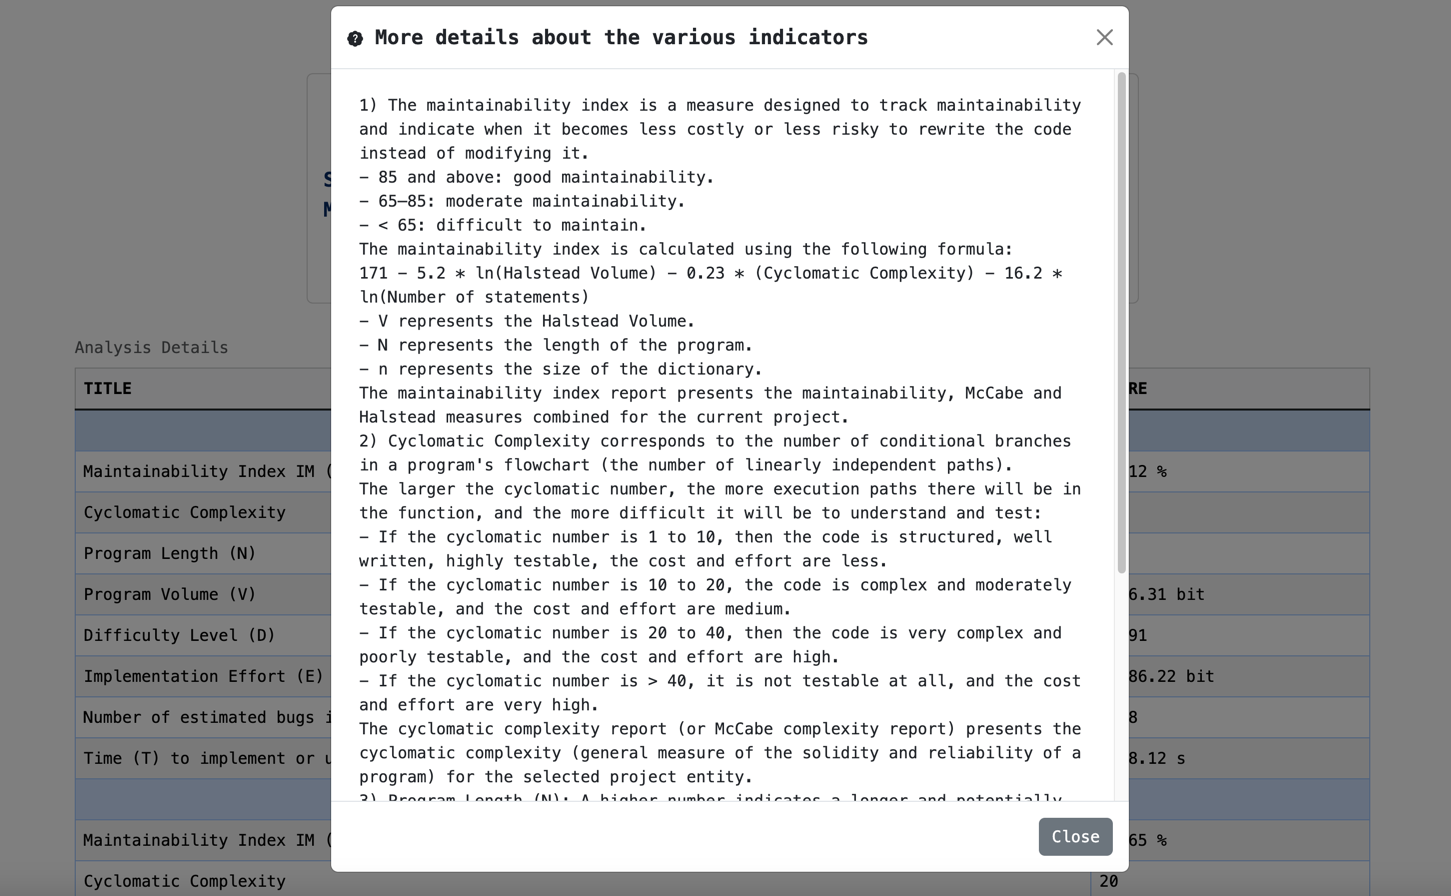
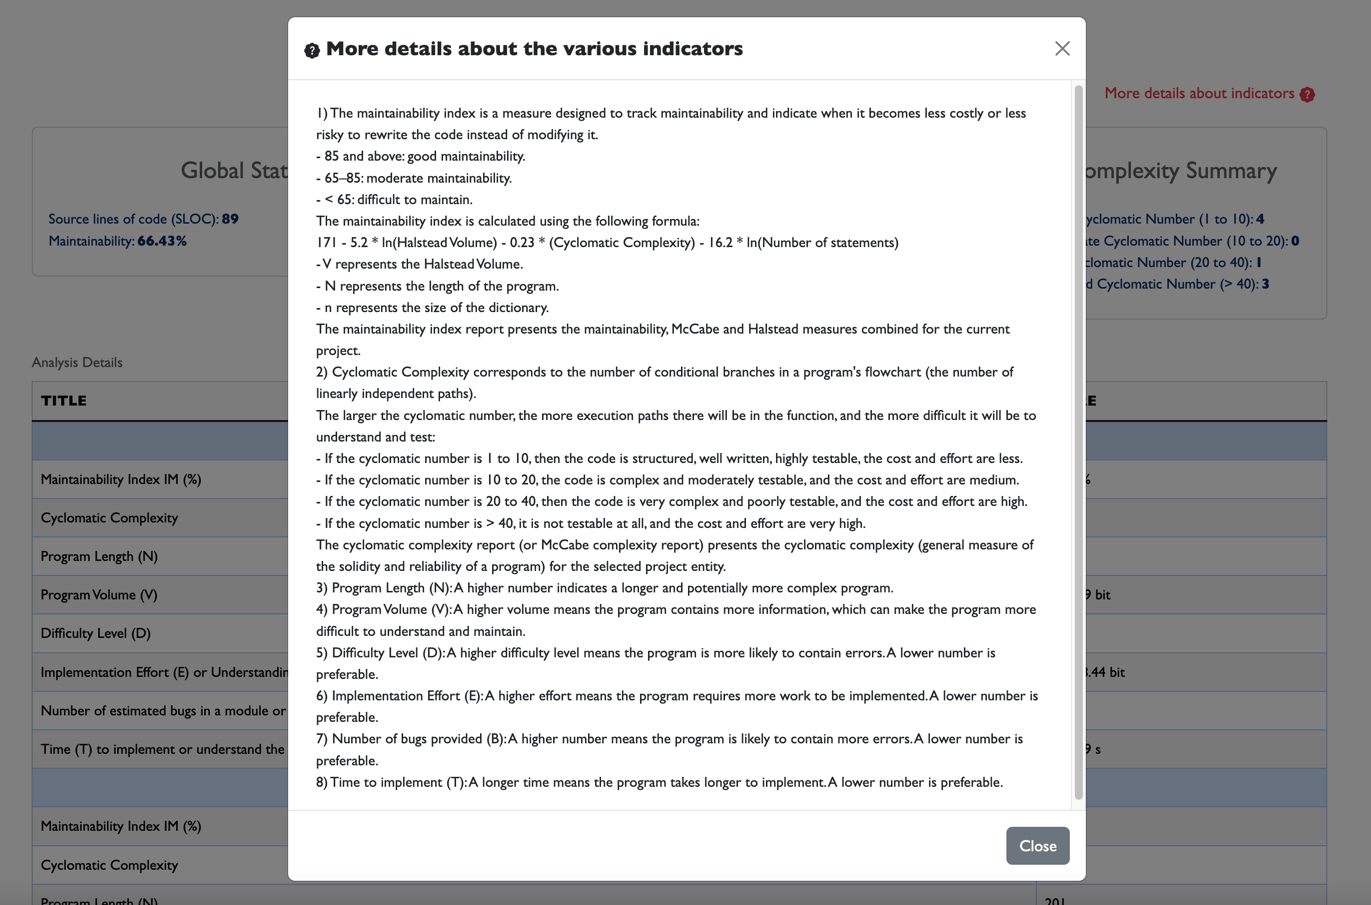
[EVOL]: stats/number of files with good, bad, medium maintainability, complexity and SLOC #9

Changed region(s): [[0.0, 0.0, 0.9803, 1.0]]

diff --git a/src/config/CodeComplexityConfig.js b/src/config/CodeComplexityConfig.js
@@ -251,6 +251,13 @@ const buildHtmlComplexityReports = (summary, descriptions, reportsByFile) => {
 
   const {
     average,
+    goodMaintainabilityTotal,
+    moderateMaintainabilityTotal,
+    badMaintainabilityTotal,
+    goodCyclomaticTotal,
+    moderateCyclomaticTotal,
+    badCyclomaticTotal,
+    veryBadCyclomaticTotal,
   } = summary;
 
   return `
@@ -261,37 +268,108 @@ const buildHtmlComplexityReports = (summary, descriptions, reportsByFile) => {
     <meta name="viewport" content="width=device-width, initial-scale=1">
     <title>Audit Reports</title>
     <link href="https://cdn.jsdelivr.net/npm/bootstrap@5.3.2/dist/css/bootstrap.min.css" rel="stylesheet" integrity="sha384-T3c6CoIi6uLrA9TneNEoa7RxnatzjcDSCmG1MXxSR1GAsXEV/Dwwykc2MPK8M2HN" crossorigin="anonymous">
+    <style>
+        body {
+            font-family: "Gill Sans", sans-serif;
+            font-size: 0.9rem;
+        }
+
+        h1 {
+            font-size: 2rem;
+        }
+
+        h2 {
+            font-size: 1.5rem;
+        }
+
+        span {
+            font-size: 0.9rem;
+        }
+    </style>
 </head>
-<body class="font-monospace">
+<body>
 <h1 class="text-center mb-4 mt-4">Code Complexity Analysis</h1>
-<div class="container text-center w-50">
-    <article class="card">
-        <div class="card-body mb-2 mt-2">
-            <h2 class="card-title text-body-secondary mt-1">Global Status (Average)</h2>
-            <p class="card-text text-start fs-5 mt-4">
-                  <span class="text-primary-emphasis">
-                  <strong>Source lines of code (SLOC):</strong> ${average?.sloc || 0}
-                  </span>
-                <br />
-                <span class="text-primary-emphasis">
-                  <strong>Maintainability:</strong> ${average?.maintainability || 0}%
-                </span>
-            </p>
-            <div class="container text-end">
-                <button
-                        type="button"
-                        class="btn btn-danger"
-                        data-bs-toggle="modal"
-                        data-bs-target="#helpMessage"
-                >
-                   More details about indicators
-                    <svg xmlns="http://www.w3.org/2000/svg" width="16" height="16" fill="currentColor" class="bi bi-patch-question-fill" viewBox="0 0 16 16">
-                        <path d="M5.933.87a2.89 2.89 0 0 1 4.134 0l.622.638.89-.011a2.89 2.89 0 0 1 2.924 2.924l-.01.89.636.622a2.89 2.89 0 0 1 0 4.134l-.637.622.011.89a2.89 2.89 0 0 1-2.924 2.924l-.89-.01-.622.636a2.89 2.89 0 0 1-4.134 0l-.622-.637-.89.011a2.89 2.89 0 0 1-2.924-2.924l.01-.89-.636-.622a2.89 2.89 0 0 1 0-4.134l.637-.622-.011-.89a2.89 2.89 0 0 1 2.924-2.924l.89.01zM7.002 11a1 1 0 1 0 2 0 1 1 0 0 0-2 0m1.602-2.027c.04-.534.198-.815.846-1.26.674-.475 1.05-1.09 1.05-1.986 0-1.325-.92-2.227-2.262-2.227-1.02 0-1.792.492-2.1 1.29A1.7 1.7 0 0 0 6 5.48c0 .393.203.64.545.64.272 0 .455-.147.564-.51.158-.592.525-.915 1.074-.915.61 0 1.03.446 1.03 1.084 0 .563-.208.885-.822 1.325-.619.433-.926.914-.926 1.64v.111c0 .428.208.745.585.745.336 0 .504-.24.554-.627"/>
-                    </svg>
-                </button>
-            </div>            
+
+<div class="container text-end mt-3 mb-3">
+    <button
+            type="button"
+            class="btn btn-outline-danger border-0"
+            data-bs-toggle="modal"
+            data-bs-target="#helpMessage"
+    >
+        More details about indicators
+        <svg xmlns="http://www.w3.org/2000/svg" width="16" height="16" fill="currentColor" class="bi bi-patch-question-fill" viewBox="0 0 16 16">
+            <path d="M5.933.87a2.89 2.89 0 0 1 4.134 0l.622.638.89-.011a2.89 2.89 0 0 1 2.924 2.924l-.01.89.636.622a2.89 2.89 0 0 1 0 4.134l-.637.622.011.89a2.89 2.89 0 0 1-2.924 2.924l-.89-.01-.622.636a2.89 2.89 0 0 1-4.134 0l-.622-.637-.89.011a2.89 2.89 0 0 1-2.924-2.924l.01-.89-.636-.622a2.89 2.89 0 0 1 0-4.134l.637-.622-.011-.89a2.89 2.89 0 0 1 2.924-2.924l.89.01zM7.002 11a1 1 0 1 0 2 0 1 1 0 0 0-2 0m1.602-2.027c.04-.534.198-.815.846-1.26.674-.475 1.05-1.09 1.05-1.986 0-1.325-.92-2.227-2.262-2.227-1.02 0-1.792.492-2.1 1.29A1.7 1.7 0 0 0 6 5.48c0 .393.203.64.545.64.272 0 .455-.147.564-.51.158-.592.525-.915 1.074-.915.61 0 1.03.446 1.03 1.084 0 .563-.208.885-.822 1.325-.619.433-.926.914-.926 1.64v.111c0 .428.208.745.585.745.336 0 .504-.24.554-.627"/>
+        </svg>
+    </button>
+</div>
+
+<div class="container text-center">
+    <div class="row gx-2">
+
+        <div class="col">
+            <article class="card">
+                <div class="card-body mb-2 mt-2">
+                    <h2 class="card-title text-body-secondary mt-1">Global Status</h2>
+                    <p class="card-text text-start mt-4">
+                        <span class="text-primary-emphasis">
+                          Source lines of code (SLOC): <strong>${average?.sloc || 0}</strong>
+                        </span>
+                        <br />
+                        <span class="text-primary-emphasis">
+                         Maintainability: <strong>${average?.maintainability || 0}%</strong>
+                        </span>
+                    </p>
+                </div>
+            </article>
         </div>
-    </article>
+
+        <div class="col">
+            <article class="card">
+                <div class="card-body mb-2 mt-2">
+                    <h2 class="card-title text-body-secondary mt-1">Maintainability Summary</h2>
+                    <p class="card-text text-start mt-4">
+                        <span class="text-primary-emphasis">
+                         Number of files with good maintainability index (>=85 %): <strong>${goodMaintainabilityTotal || 0}</strong>
+                        </span>
+                        <br />
+                        <span class="text-primary-emphasis">
+                         Number of files with moderate maintainability index (65–85 %): <strong>${moderateMaintainabilityTotal || 0}</strong>
+                        </span>
+                        <br />
+                        <span class="text-primary-emphasis">
+                         Number of files with bad maintainability index (<65 %): <strong>${badMaintainabilityTotal || 0}</strong>
+                        </span>
+                    </p>
+                </div>
+            </article>
+        </div>
+
+        <div class="col">
+            <article class="card">
+                <div class="card-body mb-2 mt-2">
+                    <h2 class="card-title text-body-secondary mt-1">Cyclomatic Complexity Summary</h2>
+                    <p class="card-text text-start mt-4">
+                        <span class="text-primary-emphasis">
+                          Number of files with good Cyclomatic Number (1 to 10): <strong>${goodCyclomaticTotal || 0}</strong>
+                        </span>
+                        <br />
+                        <span class="text-primary-emphasis">
+                         Number of files with moderate Cyclomatic Number (10 to 20): <strong>${moderateCyclomaticTotal || 0}</strong>
+                        </span>
+                        <br />
+                        <span class="text-primary-emphasis">
+                          Number of files with bad Cyclomatic Number (20 to 40): <strong>${badCyclomaticTotal || 0}</strong>
+                        </span>
+                        <br />
+                        <span class="text-primary-emphasis">
+                          Number of files with very bad Cyclomatic Number (> 40): <strong>${veryBadCyclomaticTotal || 0}</strong>
+                        </span>
+                    </p>
+                </div>
+            </article>
+        </div>
+    </div>
 </div>
 
 <!-- Modal -->

diff --git a/src/kernel/CodeComplexityAuditor.js b/src/kernel/CodeComplexityAuditor.js
@@ -61,6 +61,85 @@ const buildFilesComplexityReports = (files) => {
 };
 
 /**
+ * Build audit stats
+ * @param {object} reports
+ * @returns {{moderateCyclomaticTotal: number, badMaintainabilityTotal: number, goodMaintainabilityTotal: number, moderateMaintainabilityTotal: number, moderateCyclomaticFiles: string, goodMaintainabilityFiles: string, veryBadCyclomaticFiles: string, veryBadCyclomaticTotal: number, goodCyclomaticFiles: string, badCyclomaticTotal: number, badCyclomaticFiles: string, goodCyclomaticTotal: number, badMaintainabilityFiles: string, moderateMaintainabilityFiles: string}|{}}
+ */
+const buildAuditStats = (reports) => {
+  if(!reports){
+    return ({});
+  }
+
+  const complexityReports = reports
+      .filter(item => item.title === 'Cyclomatic Complexity')
+      .map(report => {
+        return({
+          file: report?.file,
+          cyclomatic: report?.score,
+        });
+      });
+
+  const maintainabilityReports = reports
+      .filter(item => item.title === 'Maintainability Index IM (%)')
+      .map(report => {
+        return({
+          file: report?.file,
+          maintainability: report?.scorePercent,
+        });
+      });
+
+  /*
+  - 85 and above: good maintainability.
+  - 65–85: moderate maintainability.
+  - < 65: difficult to maintain.
+  */
+  const badMaintainabilityFiles = maintainabilityReports.filter(report => {
+    return Math.ceil(report.maintainability) < 65;
+  });
+
+  const moderateMaintainabilityFiles = maintainabilityReports.filter(report => {
+    return (Math.ceil(report.maintainability) < 85 && Math.ceil(report.maintainability) >= 65);
+  });
+
+  const goodMaintainabilityFiles = maintainabilityReports.filter(report => {
+    return Math.ceil(report.maintainability) >= 85;
+  });
+
+  const goodCyclomaticFiles = complexityReports.filter(report => {
+    return (report.cyclomatic <= 10 && report.cyclomatic >= 1);
+  });
+
+  const moderateCyclomaticFiles = complexityReports.filter(report => {
+    return (report.cyclomatic <= 20 && report.cyclomatic > 10);
+  });
+
+  const badCyclomaticFiles = complexityReports.filter(report => {
+    return (report.cyclomatic <= 40 && report.cyclomatic > 20);
+  });
+
+  const veryBadCyclomaticFiles = complexityReports.filter(report => {
+    return (report.cyclomatic > 40);
+  });
+
+  return({
+    goodMaintainabilityTotal:goodMaintainabilityFiles.length,
+    goodMaintainabilityFiles: goodMaintainabilityFiles.map(item => `${item.file} (${item.maintainability})`).join('\n'),
+    moderateMaintainabilityTotal:moderateMaintainabilityFiles.length,
+    moderateMaintainabilityFiles: moderateMaintainabilityFiles.map(item => `${item.file} (${item.maintainability})`).join('\n'),
+    badMaintainabilityTotal:badMaintainabilityFiles.length,
+    badMaintainabilityFiles: badMaintainabilityFiles.map(item => `${item.file} (${item.maintainability})`).join('\n'),
+    goodCyclomaticTotal:goodCyclomaticFiles.length,
+    goodCyclomaticFiles: goodCyclomaticFiles.map(item => `${item.file} (${item.cyclomatic})`).join('\n'),
+    moderateCyclomaticTotal: moderateCyclomaticFiles.length,
+    moderateCyclomaticFiles: moderateCyclomaticFiles.map(item => `${item.file} (${item.cyclomatic})`).join('\n'),
+    badCyclomaticTotal: badCyclomaticFiles.length,
+    badCyclomaticFiles: badCyclomaticFiles.map(item => `${item.file} (${item.cyclomatic})`).join('\n'),
+    veryBadCyclomaticTotal: veryBadCyclomaticFiles.length,
+    veryBadCyclomaticFiles: veryBadCyclomaticFiles.map(item => `${item.file} (${item.cyclomatic})`).join('\n'),
+  });
+};
+
+/**
  * Start Code Complexity Audit
  * @param {string} directory
  * @param {object} options
@@ -112,7 +191,10 @@ const startAudit = async (directory, options) => {
     auditReports.push(...(filesComplexityReports || []));
 
     return ({
-      summary,
+      summary: {
+        ...(summary || {}),
+        ...(buildAuditStats(auditReports) || {}),
+      },
       auditReports,
     });
   } catch (error) {
